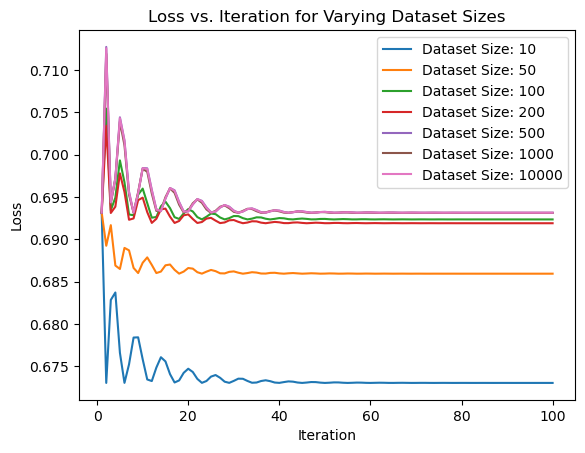
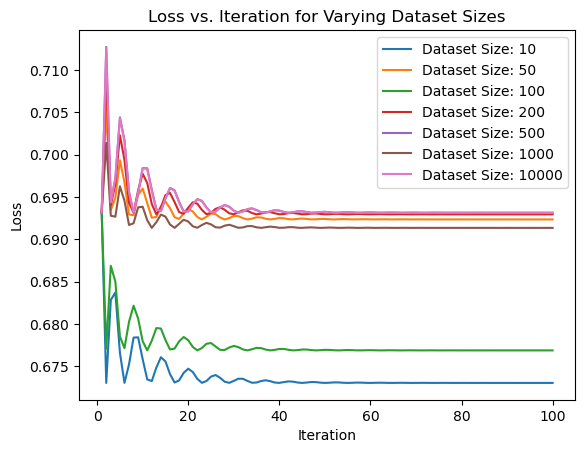
abc

Changed region(s): [[0.1538, 0.2472, 0.9538, 0.7726], [0.5231, 0.7726, 0.9538, 0.8035]]

diff --git a/docs/posts/Probablity_distibution.html b/docs/posts/Probablity_distibution.html
@@ -9,7 +9,7 @@
 <meta name="author" content="Rishabh Mondal">
 <meta name="dcterms.date" content="2024-06-23">
 
-<title>Bernoulli distribution</title>
+<title>Probablity Distribution</title>
 <style>
 code{white-space: pre-wrap;}
 span.smallcaps{font-variant: small-caps;}
@@ -157,7 +157,7 @@ pre > code.sourceCode > span > a:first-child::before { text-decoration: underlin
 
 <header id="title-block-header" class="quarto-title-block default">
 <div class="quarto-title">
-<h1 class="title">Bernoulli distribution</h1>
+<h1 class="title">Probablity Distribution</h1>
 </div>
 
 
@@ -184,9 +184,11 @@ pre > code.sourceCode > span > a:first-child::before { text-decoration: underlin
 
 </header>
 
-<section id="introduction" class="level2">
-<h2 class="anchored" data-anchor-id="introduction">Introduction</h2>
+<p>Bernoulli distribution</p>
+<section id="introduction" class="level5">
+<h5 class="anchored" data-anchor-id="introduction">Introduction</h5>
 <p>Bernoulli distribution is a discret univariate probability distribution. A Bernoulli trial or experiment results in binary outcomes: success or failure <span class="math inline">\((0 or 1)\)</span>. The trial’s success is denoted as $ p (x=1)$, and failure is expressed as <span class="math inline">\(1-p ( x=0)\)</span>.</p>
+</section>
 <section id="key-takeaways" class="level3">
 <h3 class="anchored" data-anchor-id="key-takeaways">Key Takeaways</h3>
 <section id="the-bernoulli-distribution-is-a-discrete-probability-indicator." class="level5">
@@ -210,7 +212,7 @@ pre > code.sourceCode > span > a:first-child::before { text-decoration: underlin
 P(X = x) = p^x \cdot (1-p)^{1-x} \tag{1}
 \end{equation}\]</span> $ where <span class="math inline">\((X)\)</span> is the random variable, <span class="math inline">\((x)\)</span> can be either 0 or 1, and <span class="math inline">\((p)\)</span> is the probability of success.</p>
 <p>Some imports</p>
-<div class="cell" data-execution_count="6">
+<div class="cell" data-execution_count="1">
 <div class="sourceCode cell-code" id="cb1"><pre class="sourceCode python code-with-copy"><code class="sourceCode python"><span id="cb1-1"><a href="#cb1-1" aria-hidden="true" tabindex="-1"></a><span class="im">import</span> numpy <span class="im">as</span> np</span>
 <span id="cb1-2"><a href="#cb1-2" aria-hidden="true" tabindex="-1"></a><span class="im">import</span> torch</span>
 <span id="cb1-3"><a href="#cb1-3" aria-hidden="true" tabindex="-1"></a><span class="im">from</span> torch.distributions <span class="im">import</span> Bernoulli</span>
@@ -219,7 +221,7 @@ P(X = x) = p^x \cdot (1-p)^{1-x} \tag{1}
 <span id="cb1-6"><a href="#cb1-6" aria-hidden="true" tabindex="-1"></a><span class="im">import</span> matplotlib.pyplot <span class="im">as</span> plt</span></code><button title="Copy to Clipboard" class="code-copy-button"><i class="bi"></i></button></pre></div>
 </div>
 <p>Implementation of PMF</p>
-<div class="cell" data-execution_count="7">
+<div class="cell" data-execution_count="2">
 <div class="sourceCode cell-code" id="cb2"><pre class="sourceCode python code-with-copy"><code class="sourceCode python"><span id="cb2-1"><a href="#cb2-1" aria-hidden="true" tabindex="-1"></a>p<span class="op">=</span><span class="fl">0.6</span> <span class="co">#success=0.6 failure=0.4</span></span>
 <span id="cb2-2"><a href="#cb2-2" aria-hidden="true" tabindex="-1"></a><span class="im">import</span> numpy <span class="im">as</span> np</span>
 <span id="cb2-3"><a href="#cb2-3" aria-hidden="true" tabindex="-1"></a>sample <span class="op">=</span> np.random.choice([<span class="dv">0</span>, <span class="dv">1</span>], p<span class="op">=</span>[<span class="dv">1</span> <span class="op">-</span> p, p])</span>
@@ -249,12 +251,12 @@ P(X = x) = p^x \cdot (1-p)^{1-x} \tag{1}
 <span id="cb2-27"><a href="#cb2-27" aria-hidden="true" tabindex="-1"></a><span class="bu">print</span>(<span class="st">"log odd prob :"</span>, dist)</span>
 <span id="cb2-28"><a href="#cb2-28" aria-hidden="true" tabindex="-1"></a><span class="bu">print</span>(<span class="st">"Sample:"</span>, sample.item())</span></code><button title="Copy to Clipboard" class="code-copy-button"><i class="bi"></i></button></pre></div>
 <div class="cell-output cell-output-stdout">
-<pre><code>Sample: 1
-Probability: 0.6
-Sample: tensor([0.])
+<pre><code>Sample: 0
+Probability: 0.4
+Sample: tensor([1.])
 Probability: Bernoulli(probs: tensor([0.6000]))
 probablity distributions: Bernoulli(probs: torch.Size([3]))
-Samples: tensor([0., 1., 0.])
+Samples: tensor([1., 0., 1.])
 log odd prob : Bernoulli(probs: tensor([0.6999]), logits: tensor([0.8470]))
 Sample: 1.0</code></pre>
 </div>
@@ -265,7 +267,7 @@ Sample: 1.0</code></pre>
 \end{equation}\]</span> $ $ <span class="math display">\[\begin{equation}
 \log P(X=x) = x \cdot \log(p) + (1-x) \cdot \log(1-p)
 \end{equation}\]</span> $</p>
-<div class="cell" data-execution_count="8">
+<div class="cell" data-execution_count="3">
 <div class="sourceCode cell-code" id="cb4"><pre class="sourceCode python code-with-copy"><code class="sourceCode python"><span id="cb4-1"><a href="#cb4-1" aria-hidden="true" tabindex="-1"></a>sample<span class="op">=</span><span class="dv">1</span></span>
 <span id="cb4-2"><a href="#cb4-2" aria-hidden="true" tabindex="-1"></a>prob<span class="op">=</span><span class="fl">0.6</span></span>
 <span id="cb4-3"><a href="#cb4-3" aria-hidden="true" tabindex="-1"></a>log_probability <span class="op">=</span> sample <span class="op">*</span> math.log(p) <span class="op">+</span> (<span class="dv">1</span> <span class="op">-</span> sample) <span class="op">*</span> math.log(<span class="dv">1</span> <span class="op">-</span> p)</span>
@@ -305,19 +307,19 @@ Log Probability: tensor([-0.5108])</code></pre>
 <p>$ p = _{i=1}^{n} x_i $</p>
 <p>Therefore, the MLE for the parameter p in the Bernoulli distribution is the sample mean of the observed values.</p>
 <p>It is important to note that this MLE is consistent, unbiased, and efficient for estimating the parameter p in the Bernoulli distribution.</p>
-<div class="cell" data-execution_count="9">
+<div class="cell" data-execution_count="4">
 <div class="sourceCode cell-code" id="cb6"><pre class="sourceCode python code-with-copy"><code class="sourceCode python"><span id="cb6-1"><a href="#cb6-1" aria-hidden="true" tabindex="-1"></a>size <span class="op">=</span> <span class="dv">100</span></span>
 <span id="cb6-2"><a href="#cb6-2" aria-hidden="true" tabindex="-1"></a>dataset <span class="op">=</span> dist.sample(torch.Size([size]))</span>
 <span id="cb6-3"><a href="#cb6-3" aria-hidden="true" tabindex="-1"></a>num_suc<span class="op">=</span>dataset.<span class="bu">float</span>().<span class="bu">sum</span>()</span>
 <span id="cb6-4"><a href="#cb6-4" aria-hidden="true" tabindex="-1"></a>p_estimate<span class="op">=</span>num_suc.<span class="bu">float</span>()<span class="op">/</span>dataset.size(<span class="dv">0</span>)</span>
 <span id="cb6-5"><a href="#cb6-5" aria-hidden="true" tabindex="-1"></a><span class="bu">print</span>(<span class="st">"MLE Estimate:"</span>, p_estimate.item())</span></code><button title="Copy to Clipboard" class="code-copy-button"><i class="bi"></i></button></pre></div>
 <div class="cell-output cell-output-stdout">
-<pre><code>MLE Estimate: 0.6100000143051147</code></pre>
+<pre><code>MLE Estimate: 0.6299999952316284</code></pre>
 </div>
 </div>
 <p>Performing Maximum Likelihood Estimation (MLE) for the Bernoulli distribution with varying dataset sizes. It computes the negative log-likelihood loss for different dataset sizes and optimizes the parameter ‘p’ to minimize the loss using the Adam optimizer.</p>
 <p>The resulting loss values are then plotted against the iterations to visualize the convergence of the MLE estimation.</p>
-<div class="cell" data-execution_count="10">
+<div class="cell" data-execution_count="5">
 <div class="sourceCode cell-code" id="cb8"><pre class="sourceCode python code-with-copy"><code class="sourceCode python"><span id="cb8-1"><a href="#cb8-1" aria-hidden="true" tabindex="-1"></a>dataset_sizes <span class="op">=</span> [<span class="dv">10</span>, <span class="dv">50</span>, <span class="dv">100</span>, <span class="dv">200</span>, <span class="dv">500</span>,<span class="dv">1000</span>,<span class="dv">10000</span>]</span>
 <span id="cb8-2"><a href="#cb8-2" aria-hidden="true" tabindex="-1"></a><span class="kw">def</span> negative_log_likelihood(p, dataset):</span>
 <span id="cb8-3"><a href="#cb8-3" aria-hidden="true" tabindex="-1"></a>    <span class="cf">return</span> <span class="op">-</span>(dataset <span class="op">*</span> torch.log(p) <span class="op">+</span> (<span class="dv">1</span> <span class="op">-</span> dataset) <span class="op">*</span> torch.log(<span class="dv">1</span> <span class="op">-</span> p)).mean()</span>
@@ -355,7 +357,6 @@ Log Probability: tensor([-0.5108])</code></pre>
 </ol>
 
 
-</section>
 </section>
 </section>
 

diff --git a/docs/blog.html b/docs/blog.html
@@ -175,7 +175,7 @@ ul.task-list li input[type="checkbox"] {
 
 <div class="quarto-listing quarto-listing-container-grid" id="listing-listing">
 <div class="list grid quarto-listing-cols-3">
-<div class="g-col-1" data-index="0" data-listing-date-sort="1719081000000" data-listing-file-modified-sort="1687245522733" data-listing-date-modified-sort="NaN" data-listing-reading-time-sort="3">
+<div class="g-col-1" data-index="0" data-listing-date-sort="1719081000000" data-listing-file-modified-sort="1687245800343" data-listing-date-modified-sort="NaN" data-listing-reading-time-sort="3">
 <a href="./posts/Probablity_distibution.html" class="quarto-grid-link">
 <div class="quarto-grid-item card h-100 card-left">
 <p class="card-img-top"><img src="posts/Probablity_distibution_files/figure-html/cell-6-output-1.png" style="height: 150px;"  class="thumbnail-image card-img"/></p>
@@ -198,7 +198,7 @@ Jun 23, 2024
 </div>
 </a>
 </div>
-<div class="g-col-1" data-index="1" data-categories="Quarto,Python" data-listing-date-sort="1666549800000" data-listing-file-modified-sort="1686164416310" data-listing-date-modified-sort="NaN" data-listing-reading-time-sort="2">
+<div class="g-col-1" data-index="1" data-categories="Quarto,Python" data-listing-date-sort="1666549800000" data-listing-file-modified-sort="1687245872223" data-listing-date-modified-sort="NaN" data-listing-reading-time-sort="2">
 <a href="./posts/index.html" class="quarto-grid-link">
 <div class="quarto-grid-item card h-100 card-left">
 <p class="card-img-top"><img src="posts/index_files/figure-html/cell-2-output-1.png" style="height: 150px;"  class="thumbnail-image card-img"/></p>
